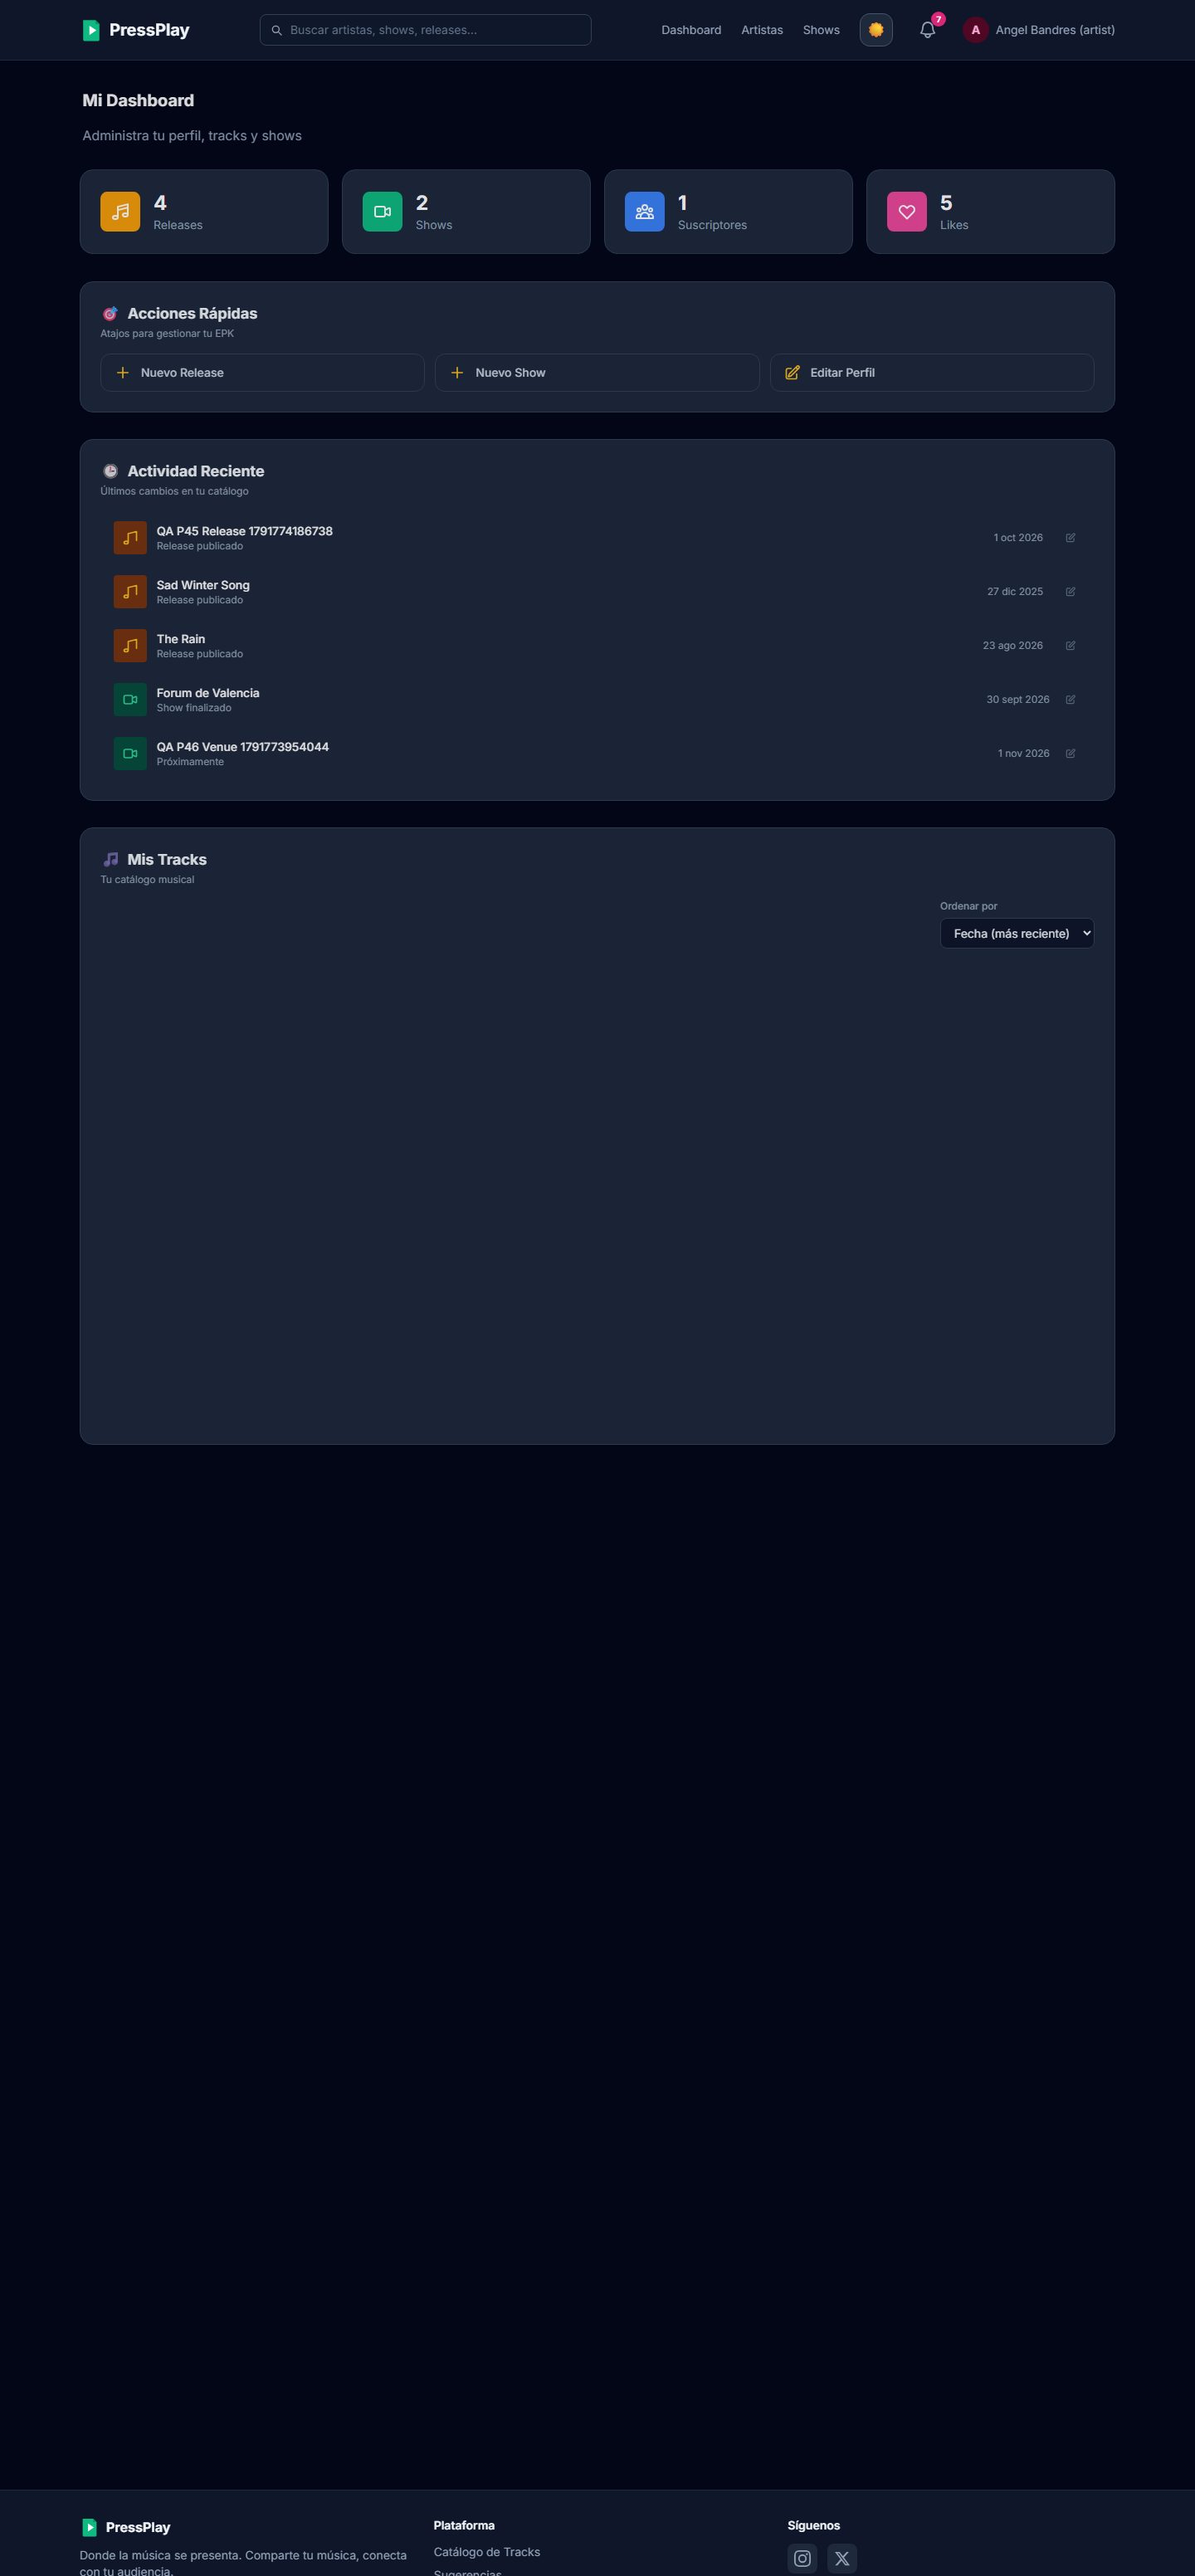
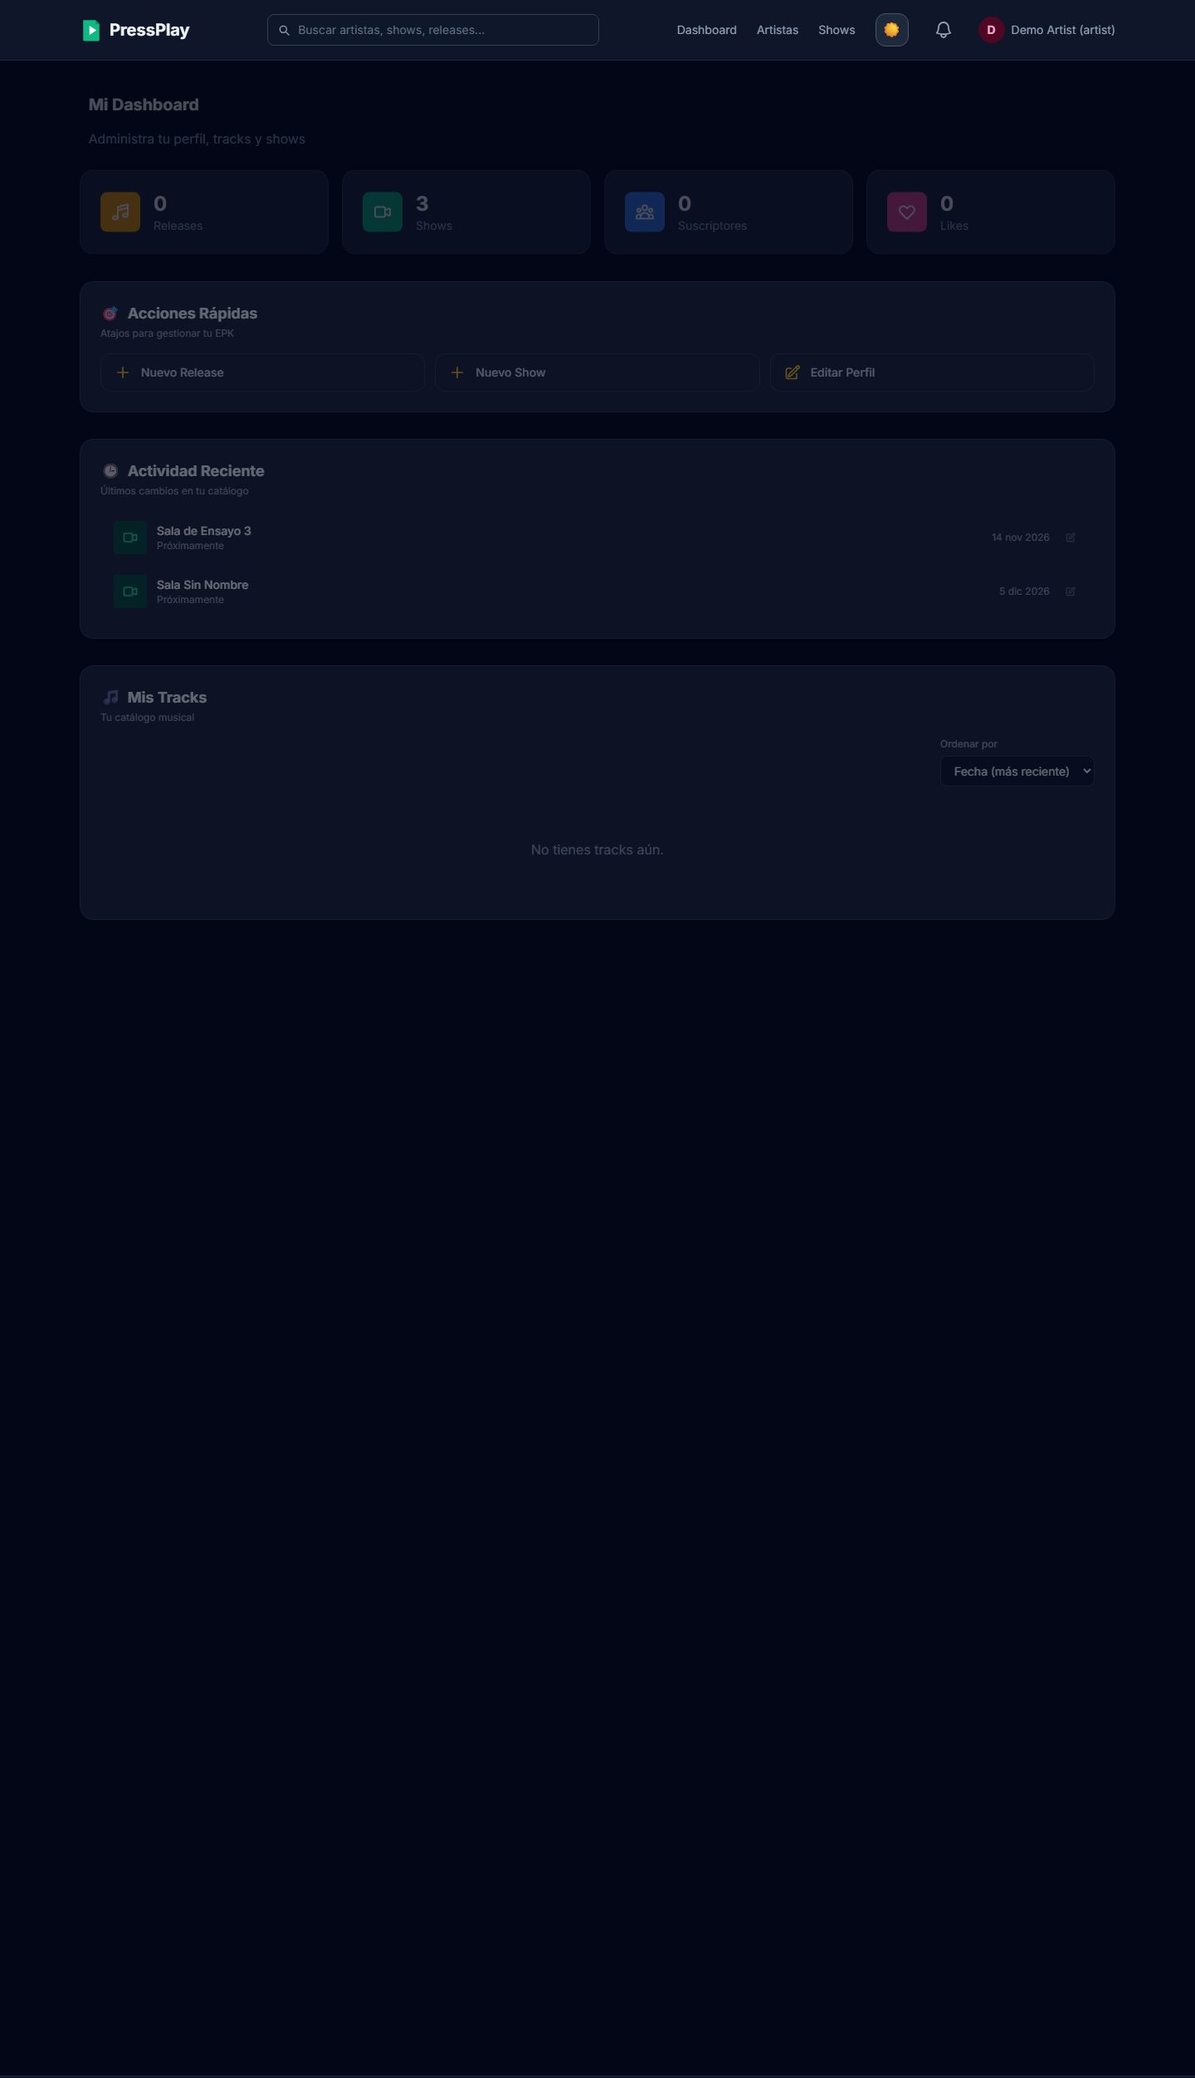
fix(P13): el scope roto era mio, y capturas con cuenta de demo
Dos cosas, y la primera es una correccion de una correccion.

## El scope: yo lo rompi

La URL del dialogo daba HTTP 500 con "Sorry, something went wrong". No lo
arreglo adivinando: **biseco la URL**, quitando un parametro cada vez.

| scope enviado | Resultado |
|---|---|
| instagram_basic | 200, pide iniciar sesion |
| instagram_content_publishing | **500** |
| instagram_content_publish | 200, pide iniciar sesion |

Con un control de `client_id` inventado que da un error DISTINTO ("Identificador
de la app no valido"), lo que confirma que el 500 es del scope.

La documentacion de Meta se contradice: la pagina del caso de uso de Instagram
pide `instagram_content_publishing` (con -ing) y la referencia de permisos lista
`instagram_content_publish` (sin -ing). **Gana la segunda.**

Es decir: yo habia corregido el nombre del permiso a la version con `-ing` y eso
rompio el dialogo. El nombre original era el bueno. Y la referencia de permisos
que yo mismo habia descargado en un mensaje anterior decia el nombre correcto y
la pase por alto, porque ya venia con una "correccion" mia escrita encima.

Es un 500, no un 400 de permisos: el servidor ni llega a evaluar el scope. Por eso
el mensaje es generico y por eso seis intentos de adivinar no podian converger.

Lo que funciono no fue la hipotesis —la primera, sobre el JSON sin codificar,
**era falsa** y la codificada daba 500 igual— sino medir. Diez peticiones y el
[…]

diff --git a/scripts/capture-social.ts b/scripts/capture-social.ts
@@ -51,11 +51,13 @@
 import { chromium, type BrowserContext, type Page } from "@playwright/test";
 import { mkdir } from "node:fs/promises";
 import path from "node:path";
-import { config } from "dotenv";
 
-// `.env.local` se carga aquí y no se espera que quien lo invoca lo haya hecho:
-// este script se ejecuta suelto, no desde los tests.
-config({ path: ".env.local" });
+// Este import **carga** `.env.local` por su cuenta (`scripts/lib/credentials.ts`
+// llama a `config()` en su propio cuerpo). Por eso este fichero ya no lo carga:
+// en ES modules los imports se evaluan antes que el cuerpo del módulo, asi que
+// un `config()` aqui correria DESPUES de que `credentials.ts` hubiera leido un
+// `process.env` vacio.
+import { DEMO_ARTIST_EMAIL, DEMO_ARTIST_PASSWORD } from "./lib/credentials";
 
 const BASE_URL = process.env.SOCIAL_BASE_URL || "https://epk-dashboard.vercel.app";
 const OUT_DIR = path.resolve(process.cwd(), "public/pressplay");
@@ -270,8 +272,13 @@ async function capturar(
  * alguien es un problema que ya se publicó.
  */
 async function autenticar(url: string): Promise<ReturnType<BrowserContext["storageState"]> | null> {
-  const email = process.env.DEMO_ARTIST_EMAIL;
-  const password = process.env.DEMO_ARTIST_PASSWORD;
+  // Las credenciales salen de `scripts/lib/credentials.ts` y no de
+  // `process.env`: es el unico sitio donde vive un default, y este script lo
+  // estaba leyendo directo. Consecuencia real: `DEMO_ARTIST_EMAIL` no estaba en
+  // `.env.local`, `process.env` daba `undefined`, y el script se creia sin
+  // credenciales — generaba cero capturas y salia con codigo de exito.
+  const email = DEMO_ARTIST_EMAIL;
+  const password = DEMO_ARTIST_PASSWORD;
 
   if (!email || !password) {
     console.log("  sin credenciales de la cuenta de demo: NO se capturará /dashboard");
@@ -300,14 +307,33 @@ async function autenticar(url: string): Promise<ReturnType<BrowserContext["stora
 }
 
 async function main(): Promise<void> {
+  // `--only` regenera una sola pagina. Existe por una razon concreta: cambiar la
+  // cuenta de las capturas de `/dashboard` no debería reescribir las otras 18,
+  // que ya estan bien y cuyo unico cambio seria un nuevo timestamp en el
+  // binario, haciendo el diff ilegible.
+  const solo = process.argv.find((a) => a.startsWith("--only="))?.slice("--only=".length);
+
+  const paginas = solo
+    ? PAGINAS.filter((p) => p.nombre === solo)
+    : PAGINAS;
+
+  if (solo && paginas.length === 0) {
+    const disponibles = PAGINAS.map((p) => p.nombre).join(", ");
+    throw new Error(`--only=${solo} no coincide con ninguna pagina.\n  Disponibles: ${disponibles}`);
+  }
+
   console.log(`\nP13 · capturas para redes sociales`);
   console.log(`  destino: ${OUT_DIR}`);
-  console.log(`  base:    ${BASE_URL}\n`);
+  console.log(`  base:    ${BASE_URL}`);
+  if (solo) console.log(`  solo:    ${solo}`);
+  console.log("");
 
   await mkdir(OUT_DIR, { recursive: true });
 
-  const hayCredenciales = !!(process.env.DEMO_ARTIST_EMAIL && process.env.DEMO_ARTIST_PASSWORD);
-  const sesion = hayCredenciales ? await autenticar(BASE_URL) : null;
+  // Autenticar cuesta un login contra Turso. Si lo filtrado no incluye ninguna
+  // pagina con sesion, no se hace: es un segundo entero por nada.
+  const haceFaltaSesion = paginas.some((p) => p.necesitaSesion);
+  const sesion = haceFaltaSesion ? await autenticar(BASE_URL) : null;
 
   const hechas: { fichero: string; bytes: number }[] = [];
   const fallos: string[] = [];
@@ -332,7 +358,7 @@ async function main(): Promise<void> {
         await fijarTema(contexto, tema);
         const page = await contexto.newPage();
 
-        for (const pagina of PAGINAS) {
+        for (const pagina of paginas) {
           if (pagina.necesitaSesion !== autenticado) continue;
           if (pagina.necesitaSesion && !sesion) {
             console.log(`  - ${pagina.nombre}: omitida, necesita sesión`);
@@ -359,6 +385,18 @@ async function main(): Promise<void> {
   }
 
   console.log(`\n${hechas.length} capturas, ${fallos.length} fallos`);
+
+  // Cero capturas NO es un exito. Pasaba: sin credenciales de la demo, la
+  // pagina se omitia con un "omitida, necesita sesion" y el script terminaba
+  // con 0 capturas, 0 fallos y codigo de salida 0. Un set de capturas que se
+  // regenera entero y se queda vacio es peor que no regenerarlo: deja las
+  // imagenes viejas en su sitio y nadie se entera de que no se ha comprobado
+  // nada.
+  if (hechas.length === 0) {
+    console.error("\nAbortando: no se ha generado ninguna captura.");
+    process.exitCode = 1;
+    return;
+  }
 
   if (fallos.length > 0) {
     // Sale con código distinto de cero: un generador que falla tiene que poder

diff --git a/tests/unit/credentials.test.ts b/tests/unit/credentials.test.ts
@@ -140,6 +140,7 @@ describe("scripts/lib/credentials", () => {
     expect(c.DEMO_ARTIST_PASSWORD).toBe("pw-inventada-de-prueba");
 
     delete process.env.DEMO_ARTIST_PASSWORD;
+    process.env.DEMO_ARTIST_PASSWORD = "";
     const c2 = await loadHelper();
     expect(c2.missingDemoCredentialEnvVars()).toEqual(["DEMO_ARTIST_PASSWORD"]);
   });

diff --git a/docs/PHASE_P13.md b/docs/PHASE_P13.md
@@ -376,7 +376,7 @@ importante no es cuántas veces fallé, sino que seguí fallando sin comprobar.*
 | Empieza por activos y permisos | Nombre, variación, identificador, activos, permisos | Sigue el orden equivocado |
 | `pages_manage_posts` no existe | Existe, bajo el caso de uso de Page | Lo puse en duda sin comprobar la tabla oficial |
 | Registrar la cuenta de IG como desarrollador | No existe ese rol para un activo | Inventé un requisito |
-| `instagram_content_publish` | **`instagram_content_publishing`** | Falta el `-ing` |
+| `instagram_content_publish` | `instagram_content_publish` | **Yo me equivoque aqui.** Ver abajo |
 | Los permisos no están disponibles | Están, en otro caso de uso | No busqué por qué el buscador vacío |
 
 ### Lo que sí explica el buscador vacío
@@ -387,12 +387,46 @@ tabula los permisos **por caso de uso**, y las filas no se mezclan:
 - *Manage everything on your Page* → `pages_manage_posts`, `pages_read_engagement`,
   `pages_show_list`, `read_insights`
 - *Manage messaging & content on Instagram* → `instagram_basic`,
-  **`instagram_content_publishing`**, `pages_read_engagement`,
+  `instagram_content_publish`, `pages_read_engagement`,
   `pages_show_list`, `business_management`
 
 El asistente de Login for Business solo ofrece los del caso de uso de Facebook.
 Por eso `instagram_basic` daba "no coincide ningún resultado": **no faltaba,
 se estaba buscando en la lista equivocada.**
+
+### La contradicción de la documentación, y por qué la pierde
+
+La página del caso de uso de Instagram pide **`instagram_content_publishing`**, con
+`-ing`. La referencia de permisos lista **`instagram_content_publish`**, sin
+`-ing`. **Las dos son de Meta y no coinciden.**
+
+La que acepta el diálogo es la **segunda**. Comprobado:
+
+| `scope` enviado | Resultado |
+|---|---|
+| `instagram_basic` | HTTP 200, pide iniciar sesión |
+| `instagram_content_publishing` | **HTTP 500**, "Sorry, something went wrong" |
+| `instagram_content_publish` | HTTP 200, pide iniciar sesión |
+
+Es un **500**, no un 400 de permisos. Es decir: el servidor ni siquiera llega a
+evaluar el permiso, revienta al construir la petición. Por eso el mensaje es el
+genérico y no dice nada de scopes, y por eso seis intentos de adivinar nombres
+no podían converger.
+
+**Un control con un `client_id` inventado da un error distinto** —"Identificador
+de la app no válido"— lo que confirma que el 500 es del `scope` y no de la app.
+
+### El método que sí funcionó: bisecar la URL
+
+Ni Hypótesis ni memoria: quitar un parámetro cada vez hasta que el 500
+desaparezca, y **leer el HTTP de cada combinación**. Diez peticiones, y el
+culpable queda aislado sin adivinar.
+
+Vale aquí lo que vale en `tests/unit/adaptadores-social.test.ts`: un
+comportamiento que se rompe se comprueba **contra el sistema**, no contra lo que
+uno recuerda de haber leído. La referencia de permisos que yo había descargado
+decía `instagram_content_publish` y **la había pasado por alto**, precisamente
+porque ya venía con una "corrección" mía escrita en el mismo sitio.
 
 ### El token vuelve en el fragmento
 
